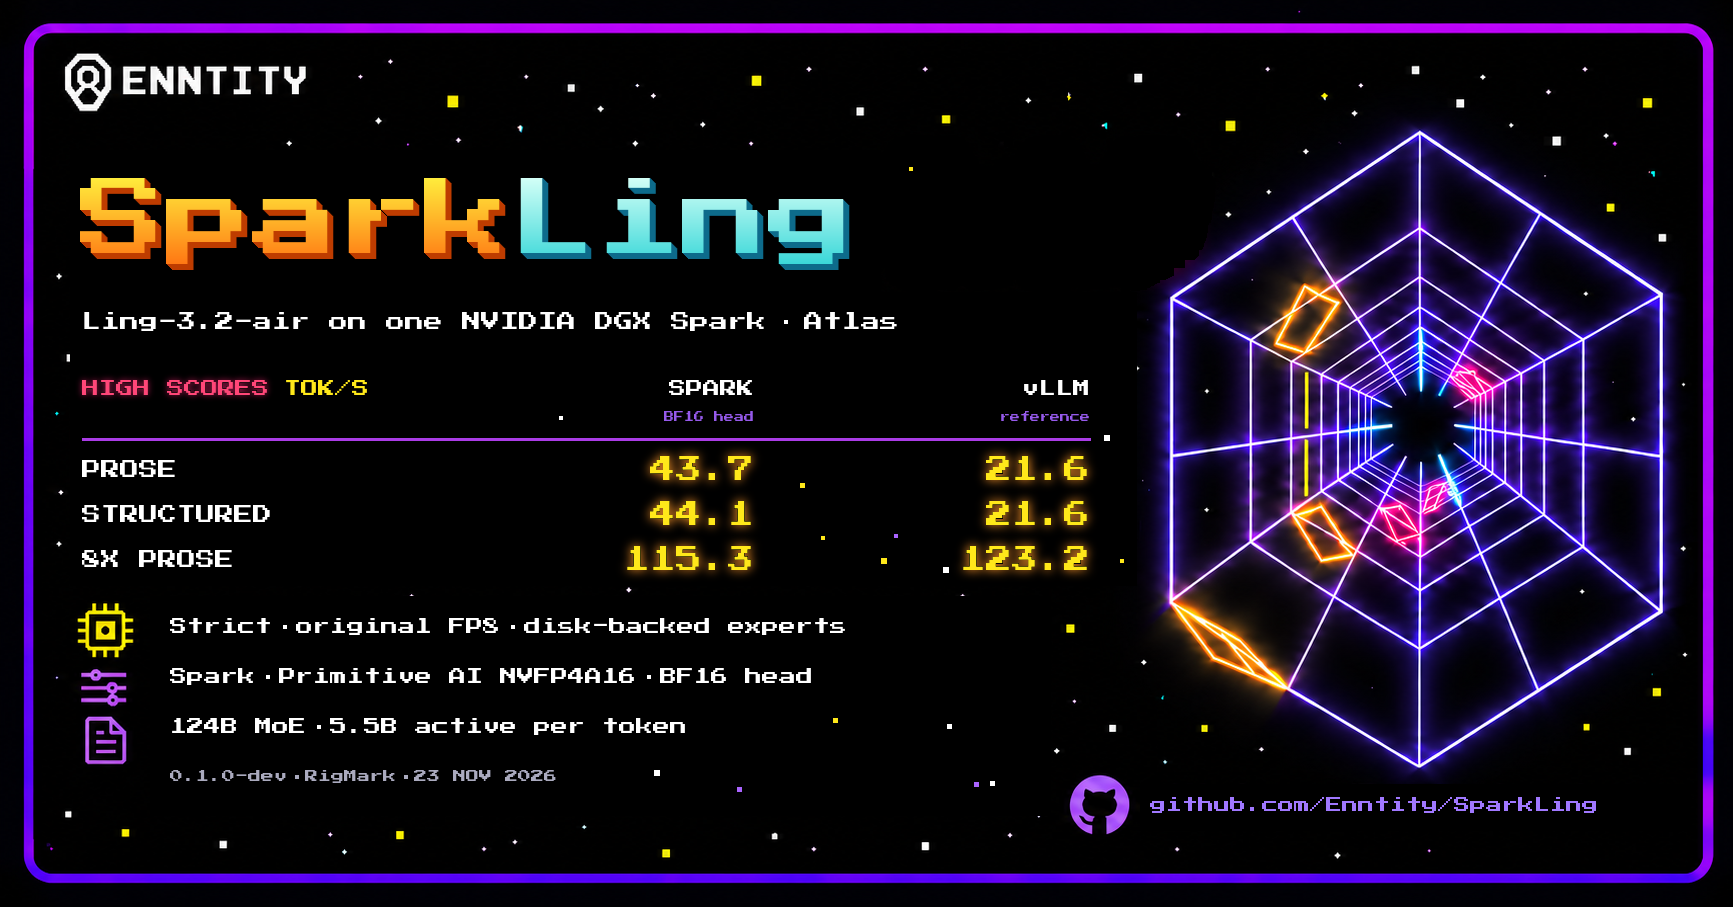
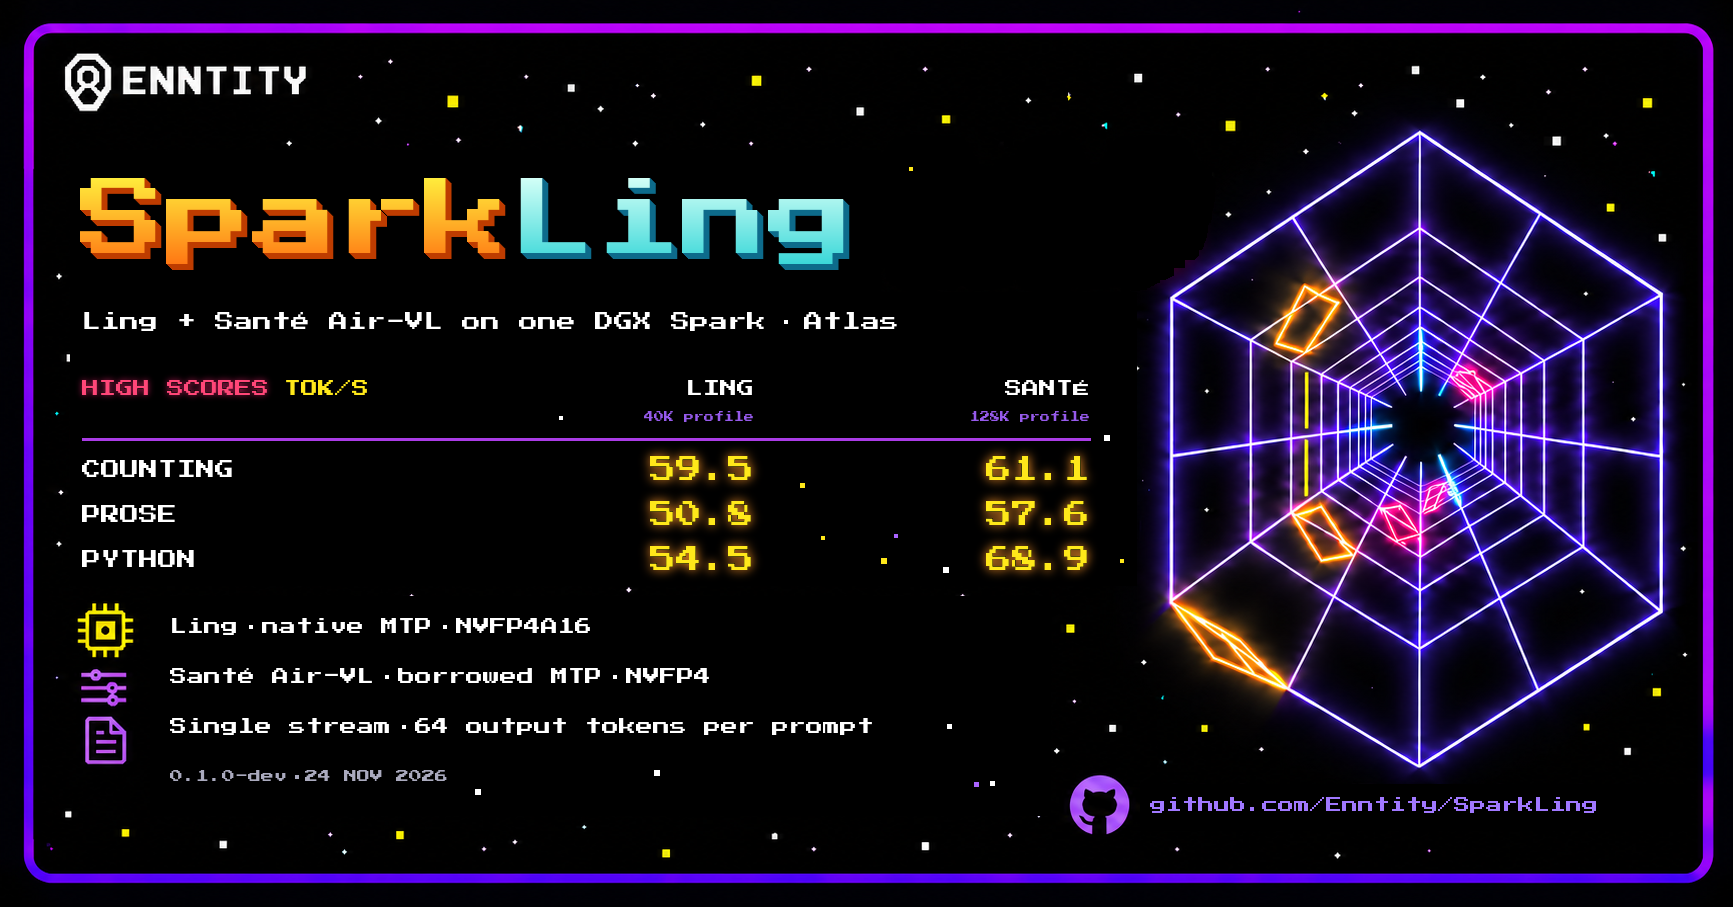
Refresh arcade cards with packaged Ling and Santé decode results

diff --git a/docs/assets/make_cards.py b/docs/assets/make_cards.py
@@ -130,15 +130,11 @@ class Card:
 
 PINK = (255, 70, 120)
 def scores(card, x0, y, k, ky, data):
-    """Lay out the measured Spark and vLLM rates in tokens per second."""
+    """Show packaged single-stream decode rates for both models."""
     head, small, label, num = int(21 * k), int(13 * k), int(23 * k), int(31 * k)
-    cols = [("SPARK", "BF16 head", x0 + int(800 * k)),
-            ("vLLM", "reference", x0 + int(1200 * k))]
-    workloads = [
-        ("PROSE", data["single_stream"]["prose"]["tokens_per_second"]),
-        ("STRUCTURED", data["single_stream"]["structured"]["tokens_per_second"]),
-        ("8X PROSE", data["concurrent_prose"]["8"]),
-    ]
+    cols = [("LING", "40K profile", x0 + int(800 * k)),
+            ("SANTÉ", "128K profile", x0 + int(1200 * k))]
+    workloads = [("COUNTING", "count"), ("PROSE", "prose"), ("PYTHON", "code")]
 
     def right(xr, yy, s, size, color, glow=None):
         card.text((xr - int(card.font(size).getlength(s)), yy), [s], size, color, glow=glow)
@@ -151,17 +147,17 @@ def scores(card, x0, y, k, ky, data):
     line = y + int(54 * ky)
     card.draw.rectangle((x0, line, cols[-1][2], line + 2), fill=(170, 60, 230))
     card.inked.append((x0, line, cols[-1][2], line + 2))
-    for row, (name, rates) in enumerate(workloads):
+    for row, (name, probe) in enumerate(workloads):
         yy = y + int(72 * ky) + row * int(42 * ky)
         card.text((x0, yy + (num - label) // 2), [name], label, WHITE)
-        for engine, (_, _, xr) in zip(("atlas", "vllm"), cols):
-            right(xr, yy, f"{rates[engine]:.1f}", num, YELLOW, glow=ORANGE)
+        for rates, (_, _, xr) in zip(data, cols):
+            right(xr, yy, f"{rates[probe]:.1f}", num, YELLOW, glow=ORANGE)
 
 
-LINES = (["Strict", "original FP8", "disk-backed experts"],
-         ["Spark", "Primitive AI NVFP4A16", "BF16 head"],
-         ["124B MoE", "5.5B active per token"])
-SOURCE = ["0.1.0-dev", "RigMark", "23 NOV 2026"]
+LINES = (["Ling", "native MTP", "NVFP4A16"],
+         ["Santé Air-VL", "borrowed MTP", "NVFP4"],
+         ["Single stream", "64 output tokens per prompt"])
+SOURCE = ["0.1.0-dev", "24 NOV 2026"]
 URL = "github.com/Enntity/SparkLing"
 
 
@@ -173,7 +169,7 @@ def banner(base, font, out, data):
     c.clear((150, 521, 1200, 700))        # supporting lines (icons stay)
     c.clear((1550, 636, 2110, 688), stars=False)  # the URL (the GitHub mark stays)
     c.title((88, 112), [("Spark", SPARK), ("Ling", LING)], 112)
-    c.text((88, 270), ["Ling-3.2-air on one NVIDIA DGX Spark", "Atlas"], 23, WHITE)
+    c.text((88, 270), ["Ling + Santé Air-VL on one DGX Spark", "Atlas"], 23, WHITE)
     scores(c, 100, 326, 1.0, 1.0, data)
     for y, parts in zip((537, 580, 624), LINES):
         c.text((172, y), parts, 20, WHITE)
@@ -195,7 +191,7 @@ def social(base, font, out, data):
     c.clear((150, 596, 1050, 815))        # supporting lines (icons stay)
     c.clear((1140, 784, 1690, 830), stars=False)  # the URL (the GitHub mark stays)
     c.title((80, 178), [("Spark", SPARK), ("Ling", LING)], 86)
-    c.text((82, 312), ["Ling-3.2-air on one NVIDIA DGX Spark", "Atlas"], 19, WHITE)
+    c.text((82, 312), ["Ling + Santé Air-VL on one DGX Spark", "Atlas"], 19, WHITE)
     scores(c, 82, 380, 0.84, 1.08, data)
     for y, parts in zip((618, 668, 718), LINES):
         c.text((170, y), parts, 17, WHITE, gap=12)
@@ -208,7 +204,10 @@ def social(base, font, out, data):
 
 if __name__ == "__main__":
     base, font, out = Path(sys.argv[1]), sys.argv[2], Path(sys.argv[3])
-    receipt = Path(__file__).resolve().parents[2] / "results/2026-11-23/bf16-head-qualification.json"
-    data = json.loads(receipt.read_text())
+    results = Path(__file__).resolve().parents[2] / "results/2026-11-24/packaged"
+    data = []
+    for filename in ("ling-streams.jsonl", "sante-128k-drafted.jsonl"):
+        records = map(json.loads, (results / filename).read_text().splitlines())
+        data.append({row["probe"]: row["decode_tok_s"] for row in records})
     banner(base / "banner.png", font, out / "banner.png", data)
     social(base / "social-preview.png", font, out / "social-preview.png", data)

diff --git a/docs/assets/README.md b/docs/assets/README.md
@@ -1,6 +1,6 @@
 # SparkLing cards
 
-The README banner and social preview use the SparkQwen arcade frame and SparkInkling’s Press Start 2P layout. The three score rows come from the [BF16-head qualification](../../results/2026-11-23/bf16-head-qualification.json). Eight-client prose is aggregate throughput.
+The README banner and social preview use the SparkQwen arcade frame and SparkInkling’s Press Start 2P layout. The three rows show counting, prose and Python decode speeds for Ling with native MTP at 40K and Santé with borrowed MTP at 128K. Both ran short, single-stream prompts on one DGX Spark. [Packaged benchmark receipts](../../results/2026-11-24/packaged)
 
 To render both cards, install Pillow, obtain the Press Start 2P font (SIL Open Font License 1.1) and use the two base PNGs from [SparkQwen at bd26c6d](https://github.com/Enntity/sparkqwen/tree/bd26c6d/docs/assets). From the SparkLing repo root, run:
 

diff --git a/README.md b/README.md
@@ -1,6 +1,6 @@
 <!-- SPDX-License-Identifier: AGPL-3.0-only -->
 <p align="center">
-  <img src="docs/assets/banner.png" alt="SparkLing on one DGX Spark. Spark versus vLLM in tokens per second: prose 43.7 vs 21.6, structured output 44.1 vs 21.6, eight-client prose 115.3 vs 123.2 aggregate." width="100%">
+  <img src="docs/assets/banner.png" alt="Drafted decode on one DGX Spark, in counting, prose and Python. Ling at 40K: 59.5, 50.8, 54.5 tokens/s. Santé at 128K: 61.1, 57.6, 68.9 tokens/s." width="100%">
 </p>
 
 # SparkLing
